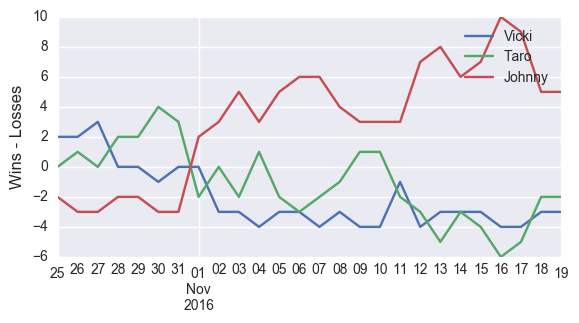
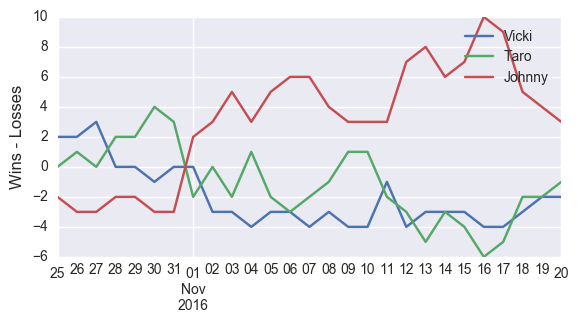
update 11/20

Changed region(s): [[0.1244, 0.3096, 0.9948, 0.9598], [0.6528, 0.031, 0.9637, 0.4025], [0.3731, 0.2167, 0.6218, 0.4025]]

diff --git a/index.html b/index.html
@@ -35,7 +35,7 @@
 <a id="the-bet-is-on" class="anchor" href="#the-bet-is-on" aria-hidden="true"><span aria-hidden="true" class="octicon octicon-link"></span></a>The bet is on.</h1>
 
 <h1>
-<a id="current-winner-of-2016-17-season" class="anchor" href="#current-winner-of-2016-17-season" aria-hidden="true"><span aria-hidden="true" class="octicon octicon-link"></span></a>Current winner of 2016-17 Season (as of 11/19/2016):</h1>
+<a id="current-winner-of-2016-17-season" class="anchor" href="#current-winner-of-2016-17-season" aria-hidden="true"><span aria-hidden="true" class="octicon octicon-link"></span></a>Current winner of 2016-17 Season (as of 11/20/2016):</h1>
 
 <h2>
 <a id="none" class="anchor" href="#none" aria-hidden="true"><span aria-hidden="true" class="octicon octicon-link"></span></a><strong>Johnny</strong>
@@ -44,23 +44,23 @@
 <h2>
 <a id="johnny" class="anchor" href="#johnny" aria-hidden="true"><span aria-hidden="true" class="octicon octicon-link"></span></a>Johnny</h2>
 
-<p>Wins: 63<br>
-Losses: 58<br>
-Remaining wins available: 592</p>
+<p>Wins: 66<br>
+Losses: 63<br>
+Remaining wins available: 587</p>
 
 <h2>
 <a id="taro" class="anchor" href="#taro" aria-hidden="true"><span aria-hidden="true" class="octicon octicon-link"></span></a>Taro</h2>
 
-<p>Wins: 60<br>
-Losses: 62<br>
-Remaining wins available: 591</p>
+<p>Wins: 63<br>
+Losses: 64<br>
+Remaining wins available: 588</p>
 
 <h2>
 <a id="vicki" class="anchor" href="#vicki" aria-hidden="true"><span aria-hidden="true" class="octicon octicon-link"></span></a>Vicki</h2>
 
-<p>Wins: 60<br>
-Losses: 63<br>
-Remaining wins available: 593</p>
+<p>Wins: 64<br>
+Losses: 66<br>
+Remaining wins available: 588</p>
 
 <img src='pythoncode/win_percent.png' alt='Winning Percentage Over Time'>
 <h1>
